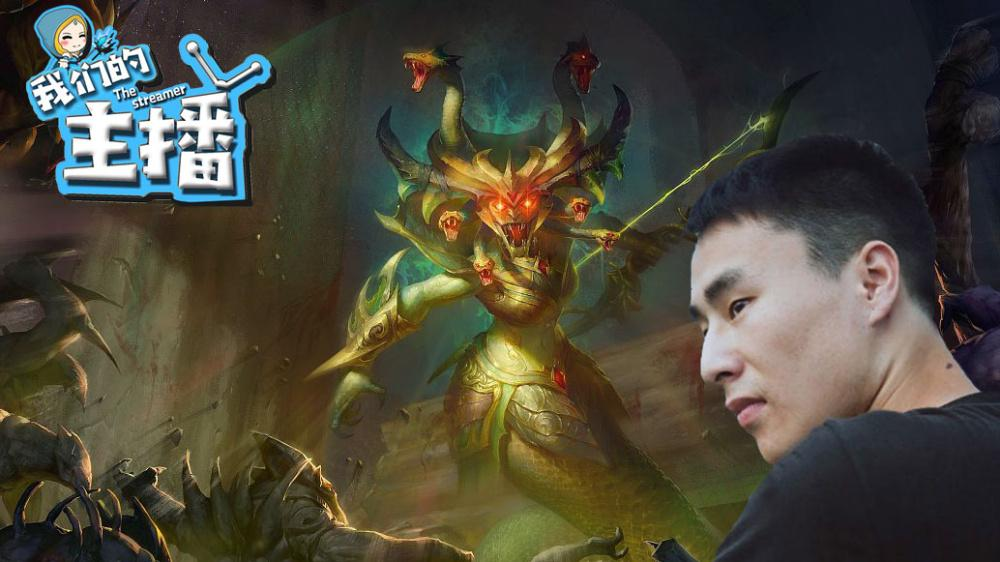
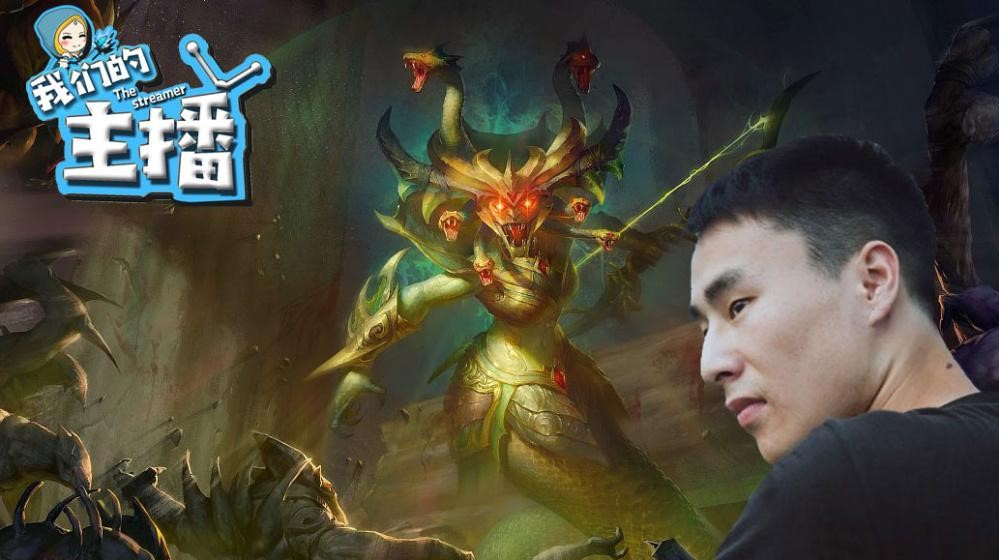
优化图片

diff --git a/index.html b/index.html
@@ -14,13 +14,23 @@
 </head>
 
 <body>
-    <h1>
+    <nav>
+        <ol>
+            <li><a href="#zsmj">个人介绍</a></li>
+            <li><a href="#hobby">游戏喜好</a></li>
+            <li><a href="#awards">个人成就</a></li>
+            <li><a href="#events">经典战役</a></li>
+            <li><a href="#pictures">生活照</a></li>
+            <li><a href="#life">生平</a></li>
+        </ol>
+    </nav>
+    <h1 id="zsmj">
         zsmj
     </h1>
     <p>
         本名：龚建，水瓶座，湖南益阳人，出生于1990年1月11日, 中国著名dota及dota2电竞选手。
     </p>
-    <h2>
+    <h2 id="hobby">
         游戏喜好
     </h2>
     <ul>
@@ -29,7 +39,7 @@
         <li>最喜欢的英雄：POM PUCK</li>
         <li>最喜欢的物品：圣剑</li>
     </ul>
-    <h2>
+    <h2 id="awards">
         个人成就
     </h2>
     <ol>
@@ -47,7 +57,7 @@
         <li>2011年G联赛第一赛季线下赛冠军 冠军</li>
 
     </ol>
-    <h2>
+    <h2 id="events">
         经典战役
     </h2>
     <table>
@@ -78,33 +88,43 @@
             </tr>
         </tbody>
     </table>
-    <h2>
+    <h2 id="pictures">
         生活照
     </h2>
 
-    <div><img width="400" src="images/1.jpg" alt="图一"></div>
-    <div><img width="400" src="images/2.jpg" alt="图二"></div>
-    <div><img width="400" src="images/3.jpg" alt="图三"></div>
-    <div><img width="400" src="images/4.jpg" alt="图四"></div>
+    <div>
+        <div>
+            <div>
+                <a href="images/1.jpg" target="_blank"><img width="400" src="images/1.jpg" alt="图一"></a>
+            </div>
+            <div>
+                <a href="images/2.jpg" target="_blank"><img width="400" src="images/2.jpg" alt="图二"></a>
+            </div>
+            <div>
+                <a href="images/3.jpg" target="_blank"><img width="400" src="images/3.jpg" alt="图三"></a>
+            </div>
+            <div>
+                <a href="images/4.jpg" target="_blank"><img width="400" src="images/4.jpg" alt="图四"></a>
+            </div>
 
-    <h2>
-        生平
-    </h2>
-    <p>
-        ZSMJ曾与Ehome战队著名选手DAI共同创造了真三国无双的饭团战队王朝时代，最喜欢的DOTA选手是DAI，最喜欢的DOTA物品是圣剑。
-    </p>
-    <p>
-        2008年真三国无双CREG联赛拿到冠军，其郭嘉在第一局末尾时的神之一C为最终的胜利奠定了基础。 ZSMJ，DAI，SHOW，FEI,AYA是饭团王朝的核心，缺一不可。 ZSMJ被认为是真三第一郭嘉和第一赵云，打钱和双线控车能力极强，对赵云的出击时间，郭嘉冰河爆裂破的位置与时间有深刻理解。
-    </p>
-    <p>
-        进入DOTA职业圈后： 2009年SMM中战胜YAMATEH领衔的马来西亚劲旅KS，ZSMJ操刀幻影长矛手，在20分钟运送圣者遗物的小鸟被吃了隐身符的兽王大招击杀的情况下，27分钟再次买出圣者遗物，并带领队伍取得当场比赛的胜利，使世界电子竞技圈第一次认识到了中国选手的打钱能力。 2010年ACG中战胜EHOME的一场比赛被称为世纪大战，在前期末日守卫被对手重点压制的情况下，ZSMJ的美杜莎在46分钟打出圣剑并将对手团灭，虽然在比赛进行到52分钟时，由于2009没有选择殿后而是TP回家致使zsmj落单被对手围攻击杀，但他迅速买活并在53分钟买出了当场比赛第二把圣剑，最终LGD在比赛进行到一个小时的时候获胜。全场比赛的正补数达到惊人的700+。
-    </p>
-    <p>
-        2010年G联赛第二赛季决赛的比赛中，LGD对战NV，这场决赛又被称为ZSMJ和Zhou中国的第一核心之争，最终ZSMJ用54分钟第一把圣剑55分钟第二把圣剑的成绩带领队伍推掉了对手的寒冰王座，奠定了自己中国dota核心第一人的位置。 2011年6月12日，LGD战胜EHOME夺得STARWAR6冠军 2011年6月26日，ZSMJ带领LGD在G联赛第一赛季决赛以3比0战胜DK，夺得冠军。 2011年8月2日，万达公子王思聪强势进入电竞，挖走LGD战队里除了ZSMJ外的另外4位队员（YYF,830GOD,CHUAN以及CH），ZSMJ遭遇dota事业上最大的低谷，他表示他会将LGD继续下去。
-    </p>
-    <p>
-        之后原Dream4人组与ZSMJ重组LGD，向之后的WDC和SMM发起冲击。 2011年11月19日，ZSMJ宣布暂时退役。
-    </p>
+            <h2 id="life">
+                生平
+            </h2>
+            <p>
+                ZSMJ曾与Ehome战队著名选手DAI共同创造了真三国无双的饭团战队王朝时代，最喜欢的DOTA选手是DAI，最喜欢的DOTA物品是圣剑。
+            </p>
+            <p>
+                2008年真三国无双CREG联赛拿到冠军，其郭嘉在第一局末尾时的神之一C为最终的胜利奠定了基础。 ZSMJ，DAI，SHOW，FEI,AYA是饭团王朝的核心，缺一不可。 ZSMJ被认为是真三第一郭嘉和第一赵云，打钱和双线控车能力极强，对赵云的出击时间，郭嘉冰河爆裂破的位置与时间有深刻理解。
+            </p>
+            <p>
+                进入DOTA职业圈后： 2009年SMM中战胜YAMATEH领衔的马来西亚劲旅KS，ZSMJ操刀幻影长矛手，在20分钟运送圣者遗物的小鸟被吃了隐身符的兽王大招击杀的情况下，27分钟再次买出圣者遗物，并带领队伍取得当场比赛的胜利，使世界电子竞技圈第一次认识到了中国选手的打钱能力。 2010年ACG中战胜EHOME的一场比赛被称为世纪大战，在前期末日守卫被对手重点压制的情况下，ZSMJ的美杜莎在46分钟打出圣剑并将对手团灭，虽然在比赛进行到52分钟时，由于2009没有选择殿后而是TP回家致使zsmj落单被对手围攻击杀，但他迅速买活并在53分钟买出了当场比赛第二把圣剑，最终LGD在比赛进行到一个小时的时候获胜。全场比赛的正补数达到惊人的700+。
+            </p>
+            <p>
+                2010年G联赛第二赛季决赛的比赛中，LGD对战NV，这场决赛又被称为ZSMJ和Zhou中国的第一核心之争，最终ZSMJ用54分钟第一把圣剑55分钟第二把圣剑的成绩带领队伍推掉了对手的寒冰王座，奠定了自己中国dota核心第一人的位置。 2011年6月12日，LGD战胜EHOME夺得STARWAR6冠军 2011年6月26日，ZSMJ带领LGD在G联赛第一赛季决赛以3比0战胜DK，夺得冠军。 2011年8月2日，万达公子王思聪强势进入电竞，挖走LGD战队里除了ZSMJ外的另外4位队员（YYF,830GOD,CHUAN以及CH），ZSMJ遭遇dota事业上最大的低谷，他表示他会将LGD继续下去。
+            </p>
+            <p>
+                之后原Dream4人组与ZSMJ重组LGD，向之后的WDC和SMM发起冲击。 2011年11月19日，ZSMJ宣布暂时退役。
+            </p>
 
 
 
